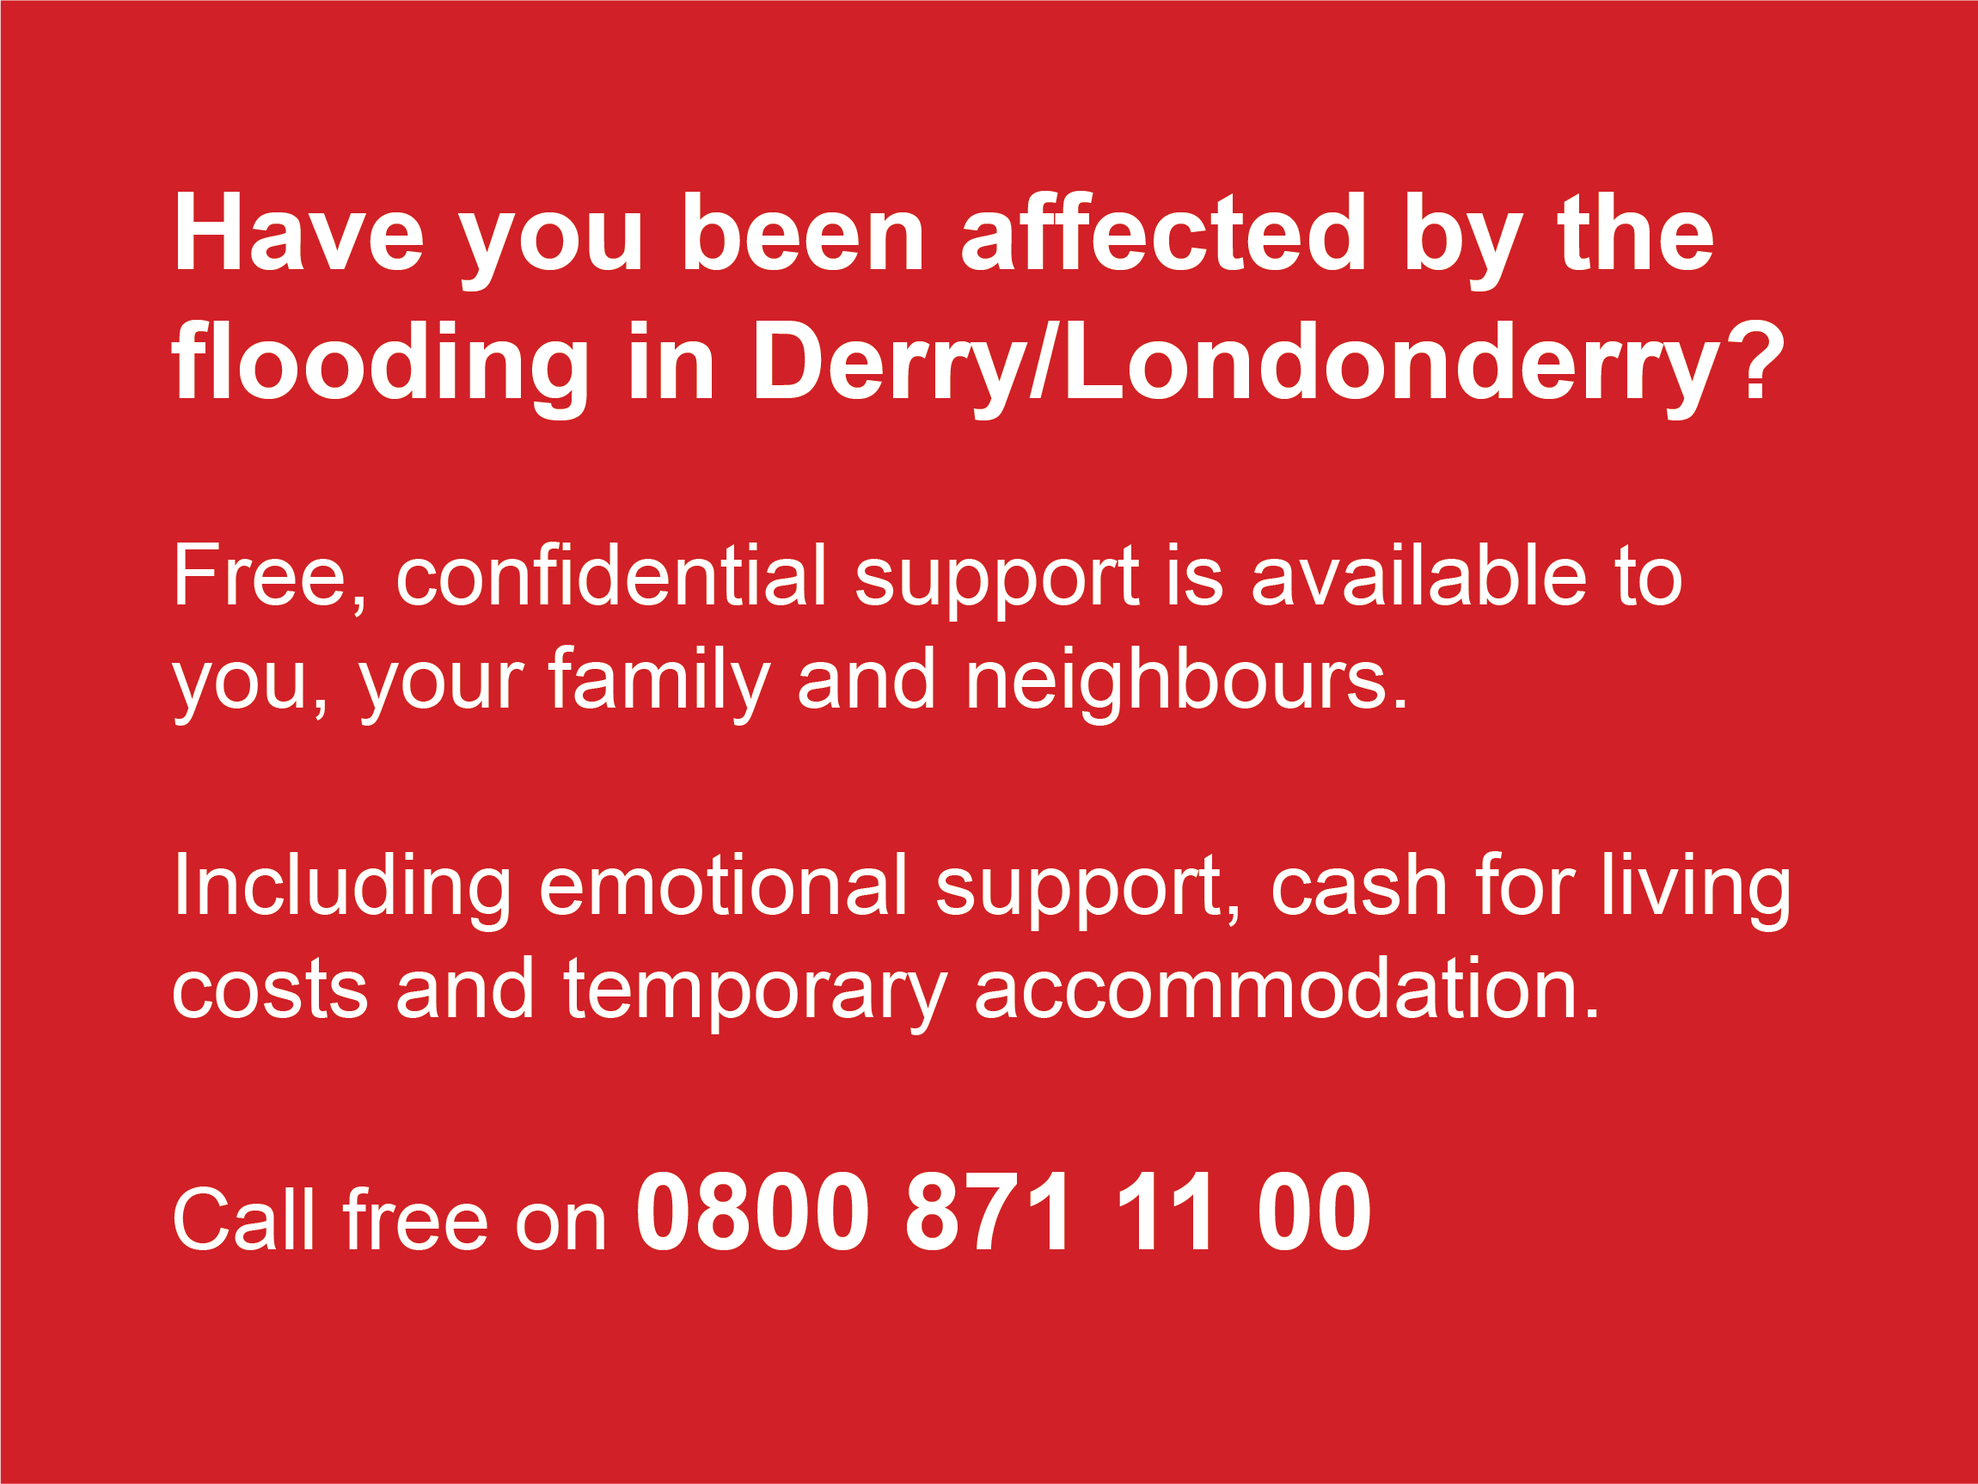
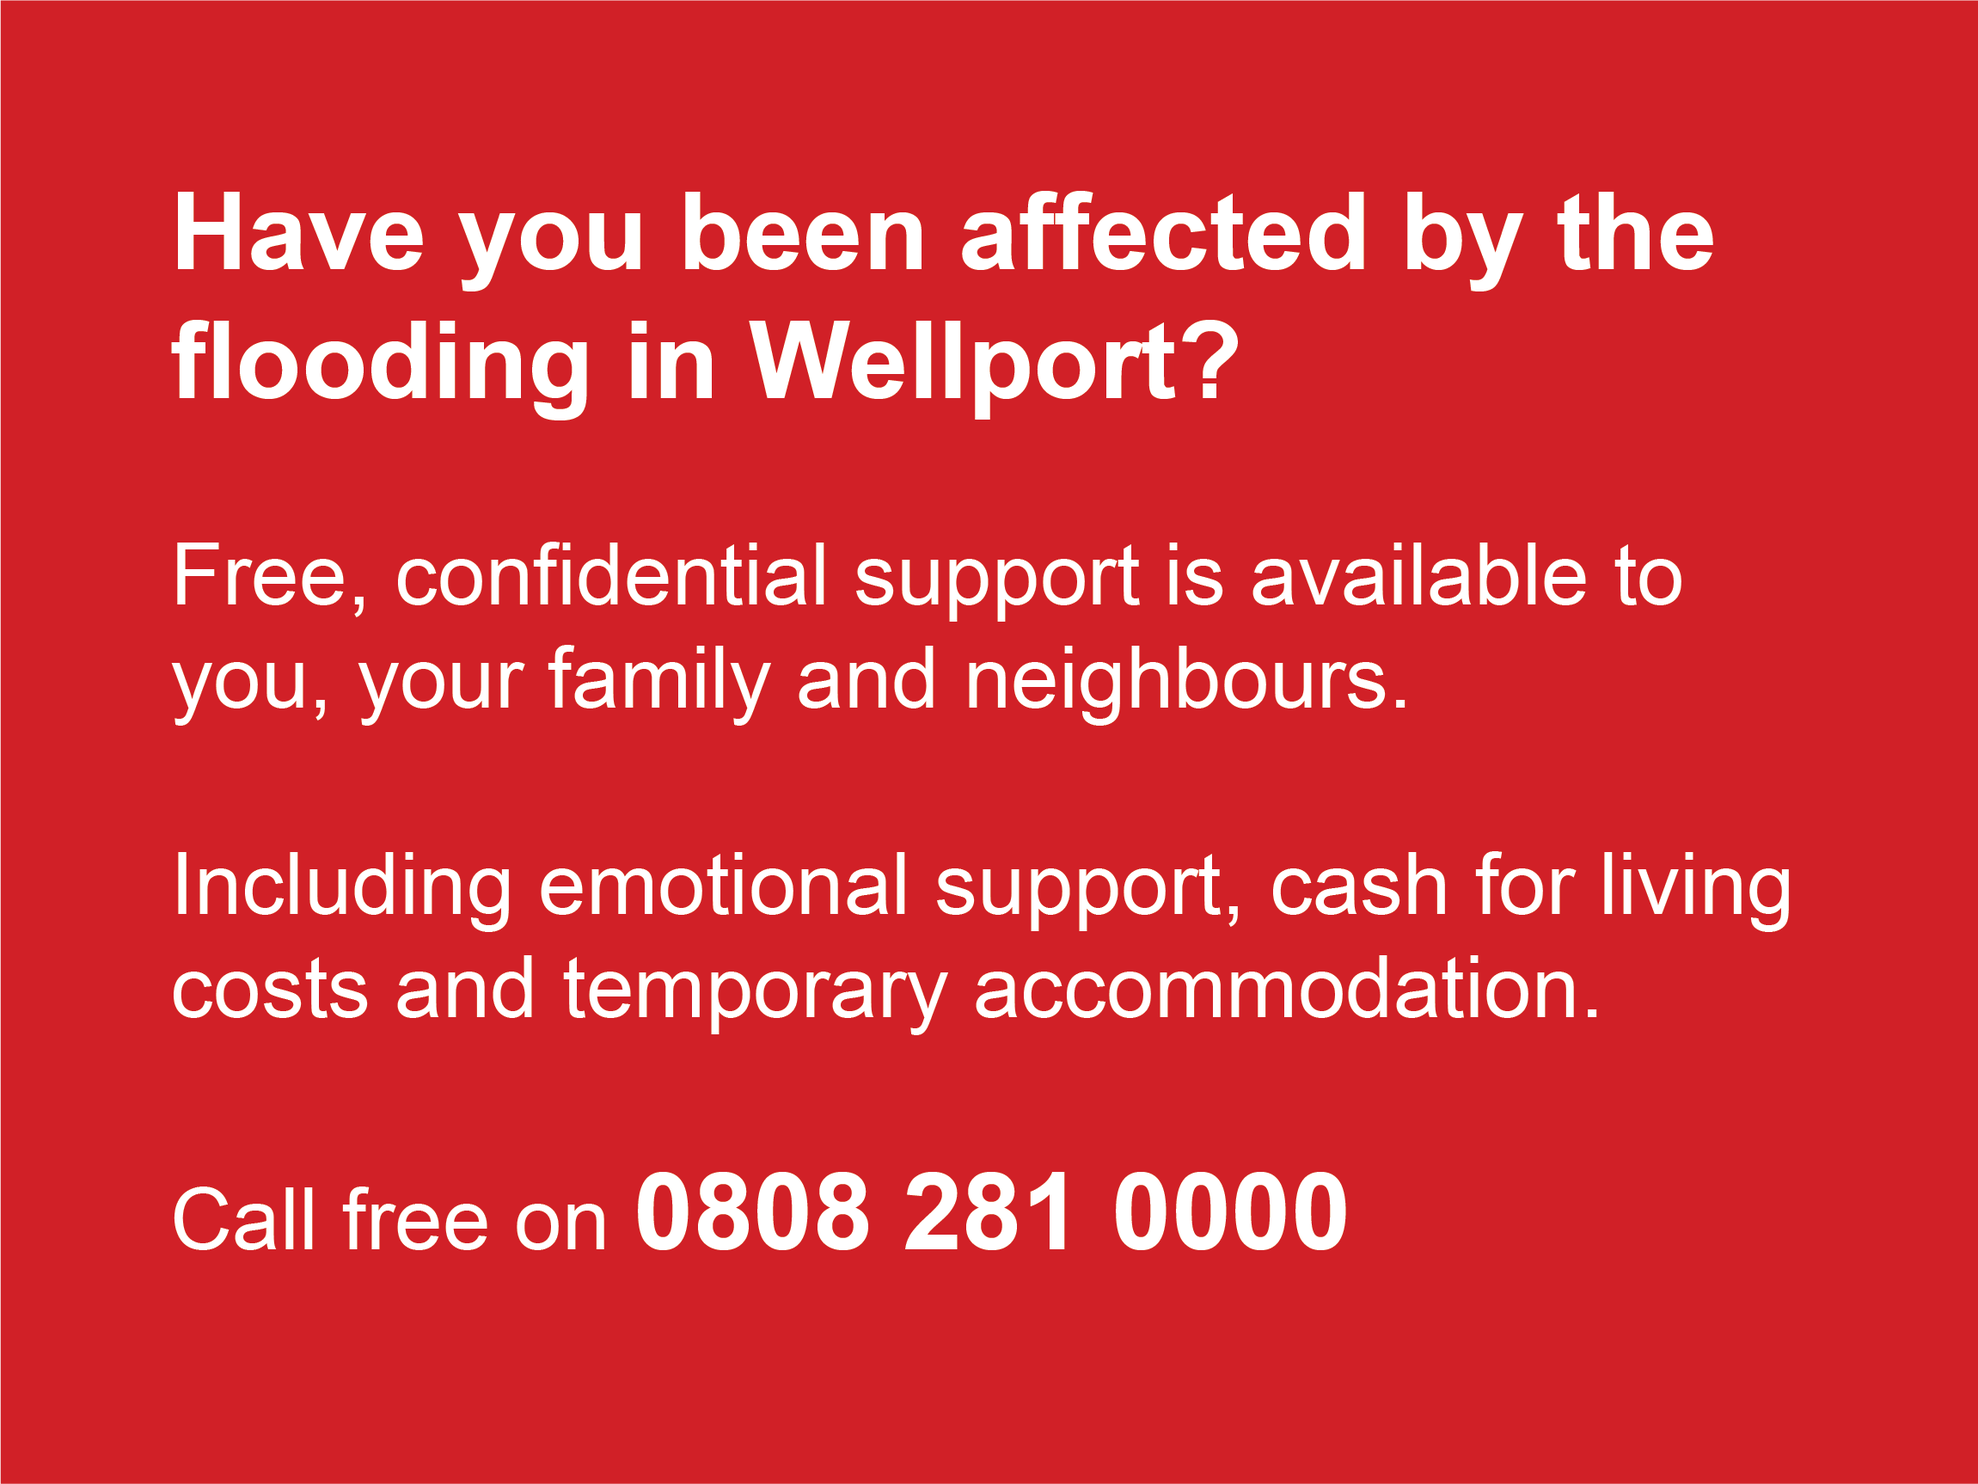
Prototype read to show Mike

Changed region(s): [[0.3703, 0.2149, 0.9257, 0.2764], [0.5554, 0.7677, 0.7097, 0.8598], [0.4011, 0.7984, 0.5246, 0.8598]]

diff --git a/app/views/facebook.html b/app/views/facebook.html
@@ -10341,11 +10341,11 @@ http://www.today.com/parents/security-guard-who-makes-disney-dreams-come-true-91
         })();
     </script>
 
[2 lines of base64/hex data omitted]
 
-    <p>Free and confidential support is available for people affected by the flooding in the Derry/Londonderry area:</p>
+    <p>Free and confidential support is available for people affected by the flooding in Wellport:</p>
 
-    </span></span></div></div><div class="_3x-2" data-ft="&#123;&quot;tn&quot;:&quot;H&quot;&#125;"><div data-ft="&#123;&quot;tn&quot;:&quot;H&quot;&#125;"><div class="mtm"><div id="u_ps_0_0_f" class="_6m2 _1zpr clearfix _dcs _4_w4 _41u- _59ap _2bf7 _64lx _3eqz _20pq _3eqw _2rk1 _3n1j _5qqr" data-ft="&#123;&quot;tn&quot;:&quot;H&quot;&#125;"><div class="clearfix _2r3x"><div class="lfloat _ohe"><span class="_3m6-"><div class="_6ks"><a href="/landing-page" tabindex="-1" target="_blank" rel="noopener nofollow" data-lynx-mode="async"><div class="_6l- __c_"><div class="uiScaledImageContainer _6m5 fbStoryAttachmentImage" style="width:500px;height:375px;"><img class="scaledImageFitWidth img" src="/public/images/facebook-callout.png" data-src="/public/images/facebook-callout.png" alt="" width="500" height="375" /></div></div></a></div><div class="_3ekx _29_4"><div class="_44ae _651x"><div></div><div class="_6m3 _-\-\6"><div class="_59tj _2iau"><div><div class="_6lz _6mb _1t62 ellipsis">REDCROSS.ORG</div><div class=""></div></div></div><div class="_3n1k"><div class="mbs _6m6 _2cnj _5s6c"><a href="#" rel="noopener nofollow" target="_blank" data-lynx-mode="async">Free and confidential support is available...</a></div><div class="_6m7 _3bt9">Speak to Red Cross trained people about <br> support available and get</div></div></div><div class="_44af _2e6-"><div class="_522u"><div class="_6a" data-ft="&#123;&quot;tn&quot;:&quot;*J&quot;&#125;"><a role="button" class="_42ft _4jy0 _4jy4 _517h _51sy" href="/landing-page" target="_blank" rel="noopener nofollow" data-lynx-mode="async">Learn More</a></div></div></div></div><a href="/landing-page" rel="noopener nofollow" tabindex="-1" target="_blank" class="_52c6" data-lynx-mode="async"></a></div></span></div><div class="_42ef"><span class="_3c21"></span></div></div></div></div></div></div><div></div></div></div><div><form rel="async" class="commentable_item collapsed_comments" method="post" data-ft="&#123;&quot;tn&quot;:&quot;]&quot;&#125;" action="/ajax/ufi/modify.php" onsubmit="" id="u_ps_0_0_k"><input type="hidden" name="jazoest" value="22058" autocomplete="off" /><input type="hidden" name="fb_dtsg" value="AQGaf0DEyA73:AQH8hUoTpmnv" autocomplete="off" /><input type="hidden" autocomplete="off" name="ft_ent_identifier" value="1190283394483499" /><input type="hidden" autocomplete="off" name="data_only_response" value="1" /><div class="_4299"><div class="_5vsi"></div><noscript id="u_ps_0_0_j"></noscript></div></form></div></div></div></div><div></div> --></code></div>
+    </span></span></div></div><div class="_3x-2" data-ft="&#123;&quot;tn&quot;:&quot;H&quot;&#125;"><div data-ft="&#123;&quot;tn&quot;:&quot;H&quot;&#125;"><div class="mtm"><div id="u_ps_0_0_f" class="_6m2 _1zpr clearfix _dcs _4_w4 _41u- _59ap _2bf7 _64lx _3eqz _20pq _3eqw _2rk1 _3n1j _5qqr" data-ft="&#123;&quot;tn&quot;:&quot;H&quot;&#125;"><div class="clearfix _2r3x"><div class="lfloat _ohe"><span class="_3m6-"><div class="_6ks"><a href="/landing-page" tabindex="-1" target="_blank" rel="noopener nofollow" data-lynx-mode="async"><div class="_6l- __c_"><div class="uiScaledImageContainer _6m5 fbStoryAttachmentImage" style="width:500px;height:375px;"><img class="scaledImageFitWidth img" src="/public/images/facebook-callout.png" data-src="/public/images/facebook-callout.png" alt="" width="500" height="375" /></div></div></a></div><div class="_3ekx _29_4"><div class="_44ae _651x"><div></div><div class="_6m3 _-\-\6"><div class="_59tj _2iau"><div><div class="_6lz _6mb _1t62 ellipsis">REDCROSS.ORG.UK</div><div class=""></div></div></div><div class="_3n1k"><div class="mbs _6m6 _2cnj _5s6c"><a href="#" rel="noopener nofollow" target="_blank" data-lynx-mode="async">Free and confidential support is available...</a></div><div class="_6m7 _3bt9">Speak to British Red Cross trained people about <br> support available and get</div></div></div><div class="_44af _2e6-"><div class="_522u"><div class="_6a" data-ft="&#123;&quot;tn&quot;:&quot;*J&quot;&#125;"><a role="button" class="_42ft _4jy0 _4jy4 _517h _51sy" href="/landing-page" target="_blank" rel="noopener nofollow" data-lynx-mode="async">Learn More</a></div></div></div></div><a href="/landing-page" rel="noopener nofollow" tabindex="-1" target="_blank" class="_52c6" data-lynx-mode="async"></a></div></span></div><div class="_42ef"><span class="_3c21"></span></div></div></div></div></div></div><div></div></div></div><div><form rel="async" class="commentable_item collapsed_comments" method="post" data-ft="&#123;&quot;tn&quot;:&quot;]&quot;&#125;" action="/ajax/ufi/modify.php" onsubmit="" id="u_ps_0_0_k"><input type="hidden" name="jazoest" value="22058" autocomplete="off" /><input type="hidden" name="fb_dtsg" value="AQGaf0DEyA73:AQH8hUoTpmnv" autocomplete="off" /><input type="hidden" autocomplete="off" name="ft_ent_identifier" value="1190283394483499" /><input type="hidden" autocomplete="off" name="data_only_response" value="1" /><div class="_4299"><div class="_5vsi"></div><noscript id="u_ps_0_0_j"></noscript></div></form></div></div></div></div><div></div> --></code></div>
     <script>
         bigPipe.beforePageletArrive("hyperfeed_story_id_5d94bc6e883ac7029750464")
     </script>

diff --git a/app/views/platform/splash-page.html b/app/views/platform/splash-page.html
@@ -38,8 +38,8 @@
         <p>Use Registration Platform and be ready to register people in minutes.</p>
     </div>
     <div class="govuk-grid-column-one-half"><!--offset column-->
-        <div class="govuk-panel govuk-panel--confirmation" style="background-color: #fff; border: 3px #b1b4b6 solid;">
-            <div class="govuk-panel__body" style="color: #b1b4b6;">
+        <div class="govuk-panel govuk-panel--confirmation" style="background-color: #f3f2f1; border: 3px #f3f2f1 solid;">
+            <div class="govuk-panel__body" style="color: #f3f2f1;">
               Image to illustrate feature
             </div>
         </div>    
@@ -54,8 +54,8 @@
         <p>Real-time information about who's been affect, where they are and what support they need.</p>
     </div>
     <div class="govuk-grid-column-one-half"><!--offset column-->
-        <div class="govuk-panel govuk-panel--confirmation" style="background-color: #fff; border: 3px #b1b4b6 solid;">
-            <div class="govuk-panel__body" style="color: #b1b4b6;">
+        <div class="govuk-panel govuk-panel--confirmation" style="background-color: #f3f2f1; border: 3px #f3f2f1 solid;">
+            <div class="govuk-panel__body" style="color: #f3f2f1;">
               Image to illustrate feature
             </div>
         </div>    
@@ -70,8 +70,8 @@
         <p>Co-ordinate responses with partners organisations by sharing information in automatic and standardised ways.</p>
     </div>
     <div class="govuk-grid-column-one-half"><!--offset column-->
-        <div class="govuk-panel govuk-panel--confirmation" style="background-color: #fff; border: 3px #b1b4b6 solid;">
-            <div class="govuk-panel__body" style="color: #b1b4b6;">
+        <div class="govuk-panel govuk-panel--confirmation" style="background-color: #f3f2f1; border: 3px #f3f2f1 solid;">
+            <div class="govuk-panel__body" style="color: #f3f2f1;">
               Image to illustrate feature
             </div>
         </div>    
@@ -86,8 +86,8 @@
         <p>Use download and API features to move information to and from your systems.</p>
     </div>
     <div class="govuk-grid-column-one-half"><!--offset column-->
-        <div class="govuk-panel govuk-panel--confirmation" style="background-color: #fff; border: 3px #b1b4b6 solid;">
-            <div class="govuk-panel__body" style="color: #b1b4b6;">
+        <div class="govuk-panel govuk-panel--confirmation" style="background-color: #f3f2f1; border: 3px #f3f2f1 solid;">
+            <div class="govuk-panel__body" style="color: #f3f2f1;">
               Image to illustrate feature
             </div>
         </div>    
@@ -102,8 +102,8 @@
         <p>Partners from right across public sector, private and voluntary sectors are are already using Registration Platform to co-ordinate better responses to emergencies.</p>
     </div>
     <div class="govuk-grid-column-one-half"><!--offset column-->
-        <div class="govuk-panel govuk-panel--confirmation" style="background-color: #fff; border: 3px #b1b4b6 solid;">
-            <div class="govuk-panel__body" style="color: #b1b4b6;">
+        <div class="govuk-panel govuk-panel--confirmation" style="background-color: #f3f2f1; border: 3px #f3f2f1 solid;">
+            <div class="govuk-panel__body" style="color: #f3f2f1;">
               Image of logos of organisations using the platform
             </div>
         </div>    

diff --git a/app/views/platform/register-people.html b/app/views/platform/register-people.html
@@ -81,7 +81,7 @@
                   <div class="govuk-form-group">
                     <legend class="govuk-fieldset__legend govuk-fieldset__legend--m">
                       <h1 class="govuk-fieldset__heading">
-                        Name of caller
+                        Name
                       </h1>
                     </legend>
                     <input class="govuk-input" id="event-name" name="caller-name" type="text">
@@ -270,7 +270,7 @@
                           </div>
                           <div class="govuk-checkboxes__conditional govuk-checkboxes__conditional--hidden" id="conditional-housing">
                             <div class="govuk-form-group">
-                                <p>Share information with <span style="font-weight: 700;">Housing Executive</span>
+                                <p>Share information with <span style="font-weight: 700;">{% include "includes/local-authority-name.html" %}</span>
                                 </p>
                             </div>
                         </div>
@@ -319,7 +319,7 @@
                           </div>
                           <div class="govuk-checkboxes__conditional govuk-checkboxes__conditional--hidden" id="conditional-grants-repairs">
                             <div class="govuk-form-group">
-                                <p>Share information with <span style="font-weight: 700;">Department of Infrastructure</span>
+                                <p>Share information with <span style="font-weight: 700;">Ministry of Housing, Communities and Local Government</span>
                                 </p>
                             </div>
                         </div>

diff --git a/app/views/platform/login-email.html b/app/views/platform/login-email.html
@@ -22,14 +22,14 @@
           <label class="govuk-label" for="email">
             Email address
           </label>
-          <input class="govuk-input govuk-!-width-two-thirds" id="email" name="email" type="email" aria-describedby="email-hint" autocomplete="email" spellcheck="false">
+          <input class="govuk-input govuk-!-width-two-thirds" id="email" name="login-email" type="email" aria-describedby="email-hint" autocomplete="email" spellcheck="false">
         </div>
 
         <div class="govuk-form-group">
           <label class="govuk-label" for="email">
             Password
           </label>
-          <input class="govuk-input govuk-!-width-two-thirds" id="email" name="email" type="email" aria-describedby="email-hint" autocomplete="email" spellcheck="false">
+          <input class="govuk-input govuk-!-width-two-thirds" id="email" name="email" type="password">
         </div>
 
         <input type="hidden" id="phone-security" name="phoneNumber" value="07760816534">

diff --git a/app/views/platform/home-dashboard.html b/app/views/platform/home-dashboard.html
@@ -45,7 +45,7 @@
           <div class="govuk-form-group"><!-- name -->
             <form autocomplete="off" action="/action_page.php">
               <div class="autocomplete" style="width:87%;">
-                <input style="float: left;" autocomplete="off" class="govuk-input govuk-!-margin-right-1" id="myInput" type="text" name="caller-name" value="{{ data['caller-name'] }}" placeholder="Search names, addresses, reference numbers">
+                <input style="float: left;" autocomplete="off" class="govuk-input govuk-!-margin-right-1" id="myInput" type="text" placeholder="Search names, addresses, reference numbers">
               </div>
               <a style="width: 12%;" href="/platform/timeline" class="govuk-button govuk-button--secondary">Search</a>
               <input type="submit" hidden>

diff --git a/app/views/platform/confirmation.html b/app/views/platform/confirmation.html
@@ -43,7 +43,10 @@
             <h2 class="govuk-heading-xl">Register people</h2>
 
                   <div class="govuk-panel govuk-panel--confirmation" style="background-color: #1d70b8;">
-          <h1 class="govuk-panel__title">Registration done</h1>
+          <div class="govuk-panel__body">
+            Registration done<br><h1 class="govuk-panel__title">{{ data['caller-name'] }}</h1>
+          </div>
+          <br>
           <div class="govuk-panel__body">
             Reference number<br><strong>HDJ2123F</strong>
           </div>

diff --git a/app/assets/javascripts/application.js b/app/assets/javascripts/application.js
@@ -57,7 +57,7 @@ $(document).on('click', '.number-spinner button', function () {
 });
 
 // autocomplete
-var names = ["Barbara Santos","Laura Basegmezer","Jo Straw","Harry Trimble","Christina Pekkola Tellez","Laura Turner","Rosie Slater-Carr","Ian Goodman","Ian Hopper"];
+var names = ["Mike Adamson","Laura Basegmezer","Jo Straw","Harry Trimble","Christina Pekkola Tellez","Laura Turner","Rosie Slater-Carr","Ian Goodman","Ian Hopper"];
 
 function autocomplete(inp, arr) {
   /*the autocomplete function takes two arguments,

diff --git a/public/javascripts/application.js b/public/javascripts/application.js
@@ -57,7 +57,7 @@ $(document).on('click', '.number-spinner button', function () {
 });
 
 // autocomplete
-var names = ["Barbara Santos","Laura Basegmezer","Jo Straw","Harry Trimble","Christina Pekkola Tellez","Laura Turner","Rosie Slater-Carr","Ian Goodman","Ian Hopper"];
+var names = ["Mike Adamson","Laura Basegmezer","Jo Straw","Harry Trimble","Christina Pekkola Tellez","Laura Turner","Rosie Slater-Carr","Ian Goodman","Ian Hopper"];
 
 function autocomplete(inp, arr) {
   /*the autocomplete function takes two arguments,

diff --git a/app/views/platform/login-2fa.html b/app/views/platform/login-2fa.html
@@ -24,7 +24,7 @@
           <label class="govuk-label" for="email">
             Text message code
           </label>
-          <input class="govuk-input govuk-input--width-5" id="email" name="email" type="email" aria-describedby="email-hint" autocomplete="email" spellcheck="false">
+          <input class="govuk-input govuk-input--width-5" id="email" name="text-code">
         </div>
 
         <input type="hidden" id="phone-security" name="custId" value="07760816534">

diff --git a/app/views/platform/timeline.html b/app/views/platform/timeline.html
@@ -48,7 +48,7 @@
   <div class="govuk-grid-column-two-thirds">
 
     <span class="govuk-caption-l">{% include "includes/emergency-name.html" %}</span>
-    <h2 class="govuk-heading-xl">Barbara Santos</h2>
+    <h2 class="govuk-heading-xl">{{ data['caller-name'] }}</h2>
     <p class="govuk-body">
       Reference number <span class="govuk-body govuk-!-font-weight-bold">HDJ2123F</span>
     </p>

diff --git a/app/views/landing-page.html b/app/views/landing-page.html
@@ -153,9 +153,6 @@
                   <a class="govuk-link" href="#">Cash cards for living costs</a>
                 </li>
                 <li>
-                  <a class="govuk-link" href="#">Cash cards for living costs</a>
-                </li>
-                <li>
                   <a class="govuk-link" href="#">Insurance advice</a>
                 </li>
                 <li>

diff --git a/app/views/includes/header-platform-logged-in.html b/app/views/includes/header-platform-logged-in.html
@@ -8,7 +8,7 @@
     	<div style="float: right; padding-top: 19px;">
     		<h3 class="govuk-heading-s">
                 <span style="padding-right: 20px;">Nadiya Kanaa</span>
-                <span style="padding-right: 20px;">Wellport Council</span>
+                <!--<span style="padding-right: 20px;">Wellport Council</span>-->
     			Sign out
     		</h3>
     	</div>
